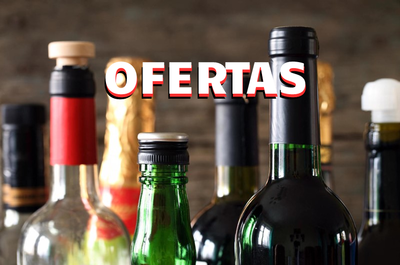
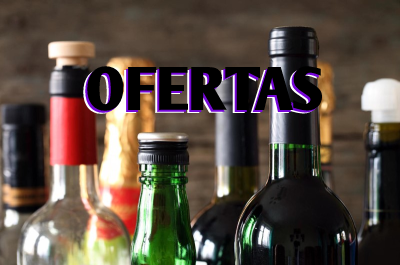
added images, styles and new components

Changed region(s): [[0.21, 0.2113, 0.81, 0.4528]]

diff --git a/the-bar-net/src/components/styles.css b/the-bar-net/src/components/styles.css
@@ -9,3 +9,82 @@
 .header-style {
     background-color: black !important;
 }
+.footer-style {
+    background-color: white !important;
+    border: 2px solid red;
+}
+.img-carrousel-ofertas {
+    background-image: url("../utils/images/banner_ofertas.png");
+    background-size: cover;
+    width: 600px;
+    height: 300px;
+}
+.img-carrousel-combos {
+    background-image: url("../utils/images/banner_combos.png");
+    background-position: center;
+    background-size: cover;
+    width: 600px;
+    height: 300px;
+}
+.carrousel-item {
+    overflow: hidden;
+}
+.carrousel-item:hover {
+    filter: brightness(80%) contrast(95%);
+}
+.categories-col {
+    height: 250px;
+    margin: 22px 10px;
+    overflow: hidden;
+}
+.categories-col:hover {
+    height: 200px;
+    filter: brightness(80%) contrast(95%);
+}
+.categories-vinos {
+    background-image: url("../utils/images/categorias_vinos.jpg");
+    background-position: center;
+    background-size: cover;
+    height: 250px;
+}
+.categories-cervezas {
+    background-image: url("../utils/images/categorias_cervezas.jpg");
+    background-position: center;
+    background-size: cover;
+    height: 250px;
+}
+.categories-espumantes {
+    background-image: url("../utils/images/categorias_espumantes.jpg");
+    background-position: center;
+    background-size: cover;
+    height: 250px;
+}
+.categories-vodka {
+    background-image: url("../utils/images/categorias_vodka.jpg");
+    background-position: center;
+    background-size: cover;
+    height: 250px;
+}
+.categories-whiskys {
+    background-image: url("../utils/images/categorias_vinos.jpg");
+    background-position: center;
+    background-size: cover;
+    height: 250px;
+}
+.categories-sin-alcohol {
+    background-image: url("../utils/images/categorias_espumantes.jpg");
+    background-position: center;
+    background-size: cover;
+    height: 250px;
+}
+.categories-name {    
+    position: absolute;
+    right: 15%;
+    bottom: 20px;
+    left: 15%;
+    z-index: 10;
+    padding-bottom: 7px;
+    color: #fff;
+    text-align: center;
+    background-color: blueviolet;
+}

diff --git a/the-bar-net/src/components/CarouselHome.jsx b/the-bar-net/src/components/CarouselHome.jsx
@@ -4,8 +4,6 @@ import Carousel from 'react-bootstrap/Carousel';
 import Container from 'react-bootstrap/Container';
 import Row from 'react-bootstrap/Row';
 import Col from 'react-bootstrap/Col';
-import bannerOfertas from "../utils/images/banner_ofertas.png";
-import bannerCombos from "../utils/images/banner_combos.png";
 
 export default function CarouselHome({onSelectOfertas, onSelectCombos}) {
     return (
@@ -13,22 +11,16 @@ export default function CarouselHome({onSelectOfertas, onSelectCombos}) {
             <Row className="justify-content-md-center">
                 <Col md="auto">
                     <Carousel>
-                        <Carousel.Item onClick={onSelectOfertas}>
-                            <img
-                                src={bannerOfertas}
-                                alt="Ofertas"
-                            />
+                        <Carousel.Item onClick={onSelectOfertas} className={"carrousel-item"}>
+                            <div className={"img-carrousel-ofertas"} />
                             <Carousel.Caption>
-                                <p>Ver ofertas disponibles del sitio.</p>
+                                <h3>Ver ofertas disponibles del sitio.</h3>
                             </Carousel.Caption>
                         </Carousel.Item>
-                        <Carousel.Item onClick={onSelectCombos}>
-                            <img
-                                src={bannerCombos}
-                                alt="Combos"
-                            />
+                        <Carousel.Item onClick={onSelectCombos} className={"carrousel-item"}>
+                            <div className={"img-carrousel-combos"} />
                             <Carousel.Caption>
-                                <p>Ver los combos disponibles del sitio.</p>
+                                <h3>Ver los combos disponibles del sitio.</h3>
                             </Carousel.Caption>
                         </Carousel.Item>
                     </Carousel>

diff --git a/the-bar-net/src/components/Categories.jsx b/the-bar-net/src/components/Categories.jsx
@@ -1,0 +1,47 @@
+import React from 'react';
+import './styles.css';
+import Container from 'react-bootstrap/Container';
+import Row from 'react-bootstrap/Row';
+import Col from 'react-bootstrap/Col';
+
+export default function Categories({ onSelectOfertas, onSelectCombos }) {
+    const arrayCategoriesFstRow = [
+        { name: 'cervezas', title: 'Cervezas' },
+        { name: 'vinos', title: 'Vinos' },
+        { name: 'espumantes', title: 'Espumantes' }
+    ];
+    const arrayCategoriesScndRow = [
+        { name: 'vodka', title: 'Vodkas' },
+        { name: 'whiskys', title: 'Whiskys' },
+        { name: 'sin-alcohol', title: 'Sin Alcohol' }
+    ];
+
+    const handleClick = category => {
+        console.log('category', category)
+    }
+
+    return (
+        <Container>
+            <Row>
+                {
+                    arrayCategoriesFstRow.map(item => {
+                        return <Col className={"categories-col"} onClick={() => handleClick(item.name)} key={item.name}>
+                            <div className={"categories-" + item.name}></div>
+                            <h1 className={"categories-name"}> {item.title}</h1>
+                        </Col>
+                    })
+                }
+            </Row>
+            <Row>
+                {
+                    arrayCategoriesScndRow.map(item => {
+                        return <Col className={"categories-col"} onClick={() => handleClick(item.name)} key={item.name}>
+                            <div className={"categories-" + item.name}></div>
+                            <h1 className={"categories-name"}> {item.title}</h1>
+                        </Col>
+                    })
+                }
+            </Row>
+        </Container>
+    )
+}

diff --git a/the-bar-net/src/components/Footer.jsx b/the-bar-net/src/components/Footer.jsx
@@ -1,0 +1,38 @@
+import React from 'react';
+import './styles.css';
+import Navbar from 'react-bootstrap/Navbar';
+import footerImg from "../utils/images/footer_bebidas.jpg";
+import theNetBarLogoWhite from "../utils/images/logo_the_bar_net_white.PNG";
+
+export const Footer = () => (
+    <Navbar className={"footer-style"}>
+        <Navbar.Brand href="#home" style={{ display: "flex", alignItems: "flex-end", width: "100%"}}>
+            <div style={{ width: "40%" }}>
+                <img
+                    alt="The Bar Net"
+                    src={footerImg}
+                    height="50"
+                    width="80%"
+                    className="d-inline-block align-top"
+                />
+            </div>
+            <div style={{ width: "20%" }}>
+                <img
+                    alt="The Bar Net"
+                    src={theNetBarLogoWhite}
+                    height="30"
+                    className="d-inline-block align-top"
+                />
+            </div>
+            <div style={{ width: "40%" }}>
+                <img
+                    alt="The Bar Net"
+                    src={footerImg}
+                    height="50"
+                    width="80%"
+                    className="d-inline-block align-top"
+                />
+            </div>
+        </Navbar.Brand>
+    </Navbar >
+)

diff --git a/the-bar-net/src/components/pages/Home.jsx b/the-bar-net/src/components/pages/Home.jsx
@@ -3,6 +3,8 @@ import '../styles.css';
 import { Loading } from '../commons/Loading';
 import CarouselHome from '../CarouselHome';
 import { Header } from '../Header';
+import { Footer } from '../Footer';
+import Categories from '../Categories';
 
 export default function Home() {
     const [isLoading, setIsLoading] = useState(true);
@@ -29,8 +31,15 @@ export default function Home() {
                     <Loading />
                 </div>
                 : <div>
-                    <div style={{ marginTop: "20px" }}>
+                    <div style={{ marginTop: "20px"}}>
                         <CarouselHome onSelectOfertas={onSelectOfertas} onSelectCombos={onSelectCombos} />
+                    </div>
+                    <div style={{ marginTop: "80px", marginBottom: "30px"}}>
+                        <h1>Categorías</h1>
+                    </div>
+                    <Categories />
+                    <div style={{ marginTop: "20px"}}>
+                        <Footer />
                     </div>
                 </div>
             }
